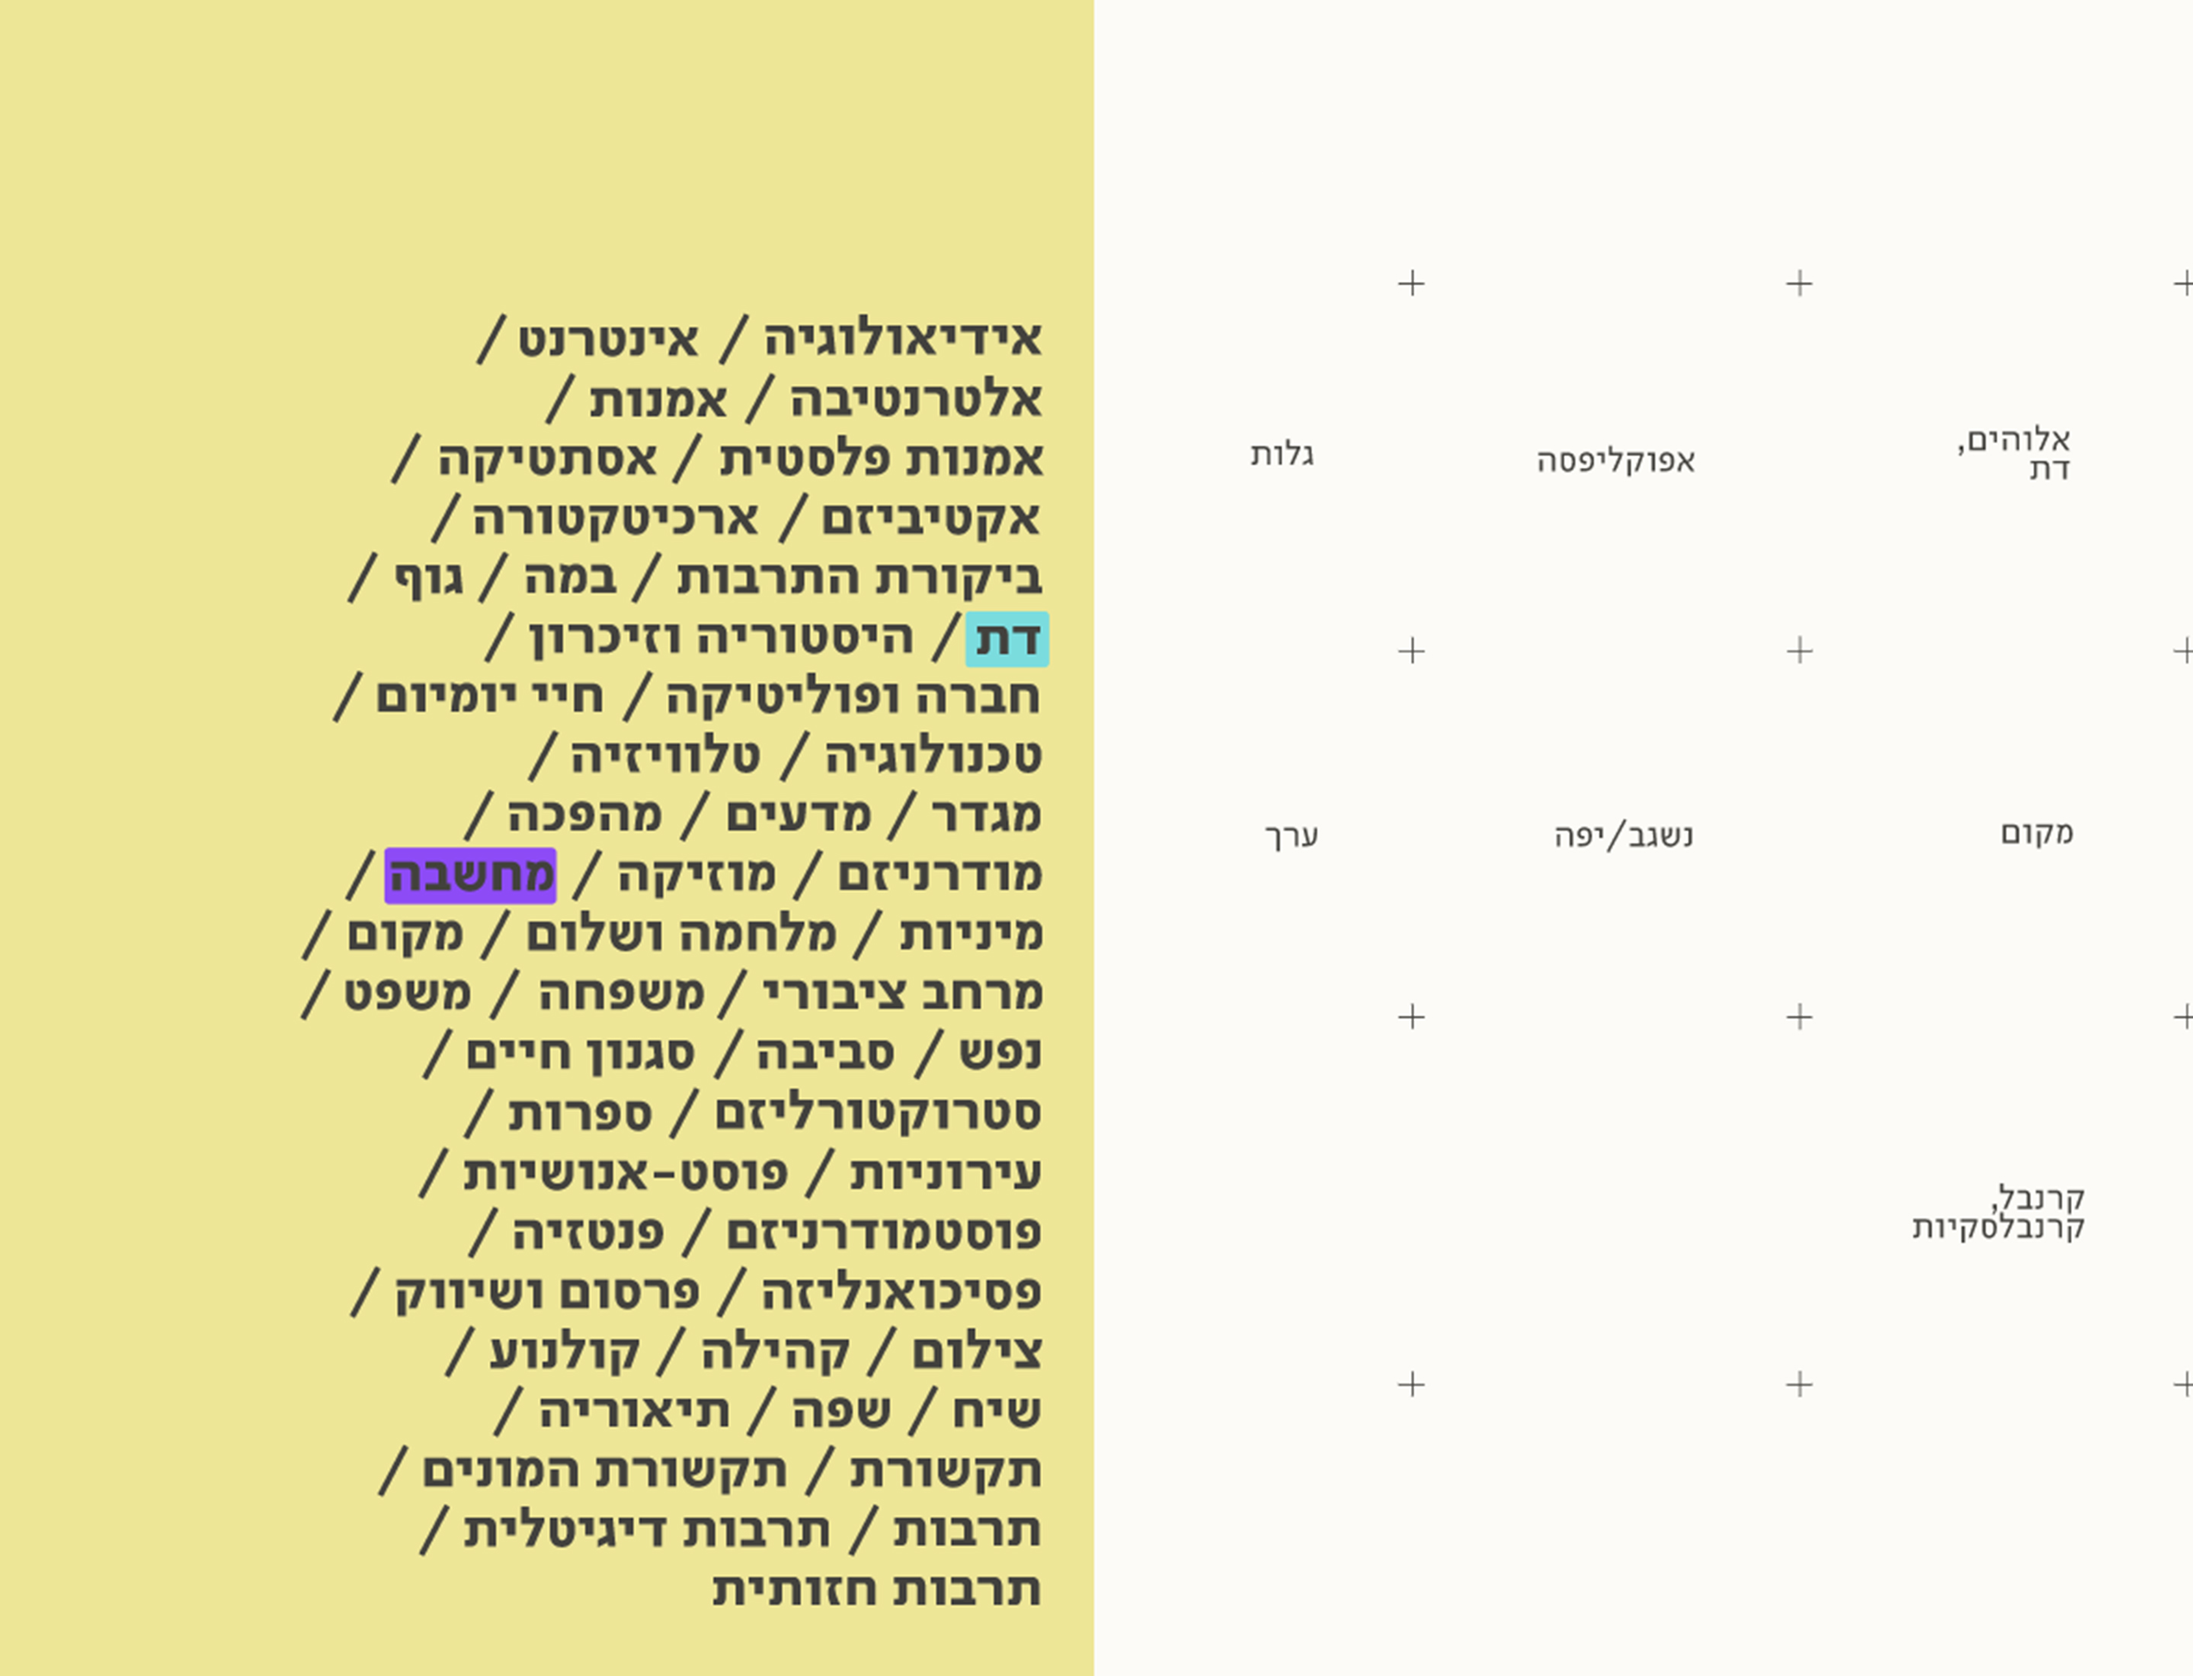
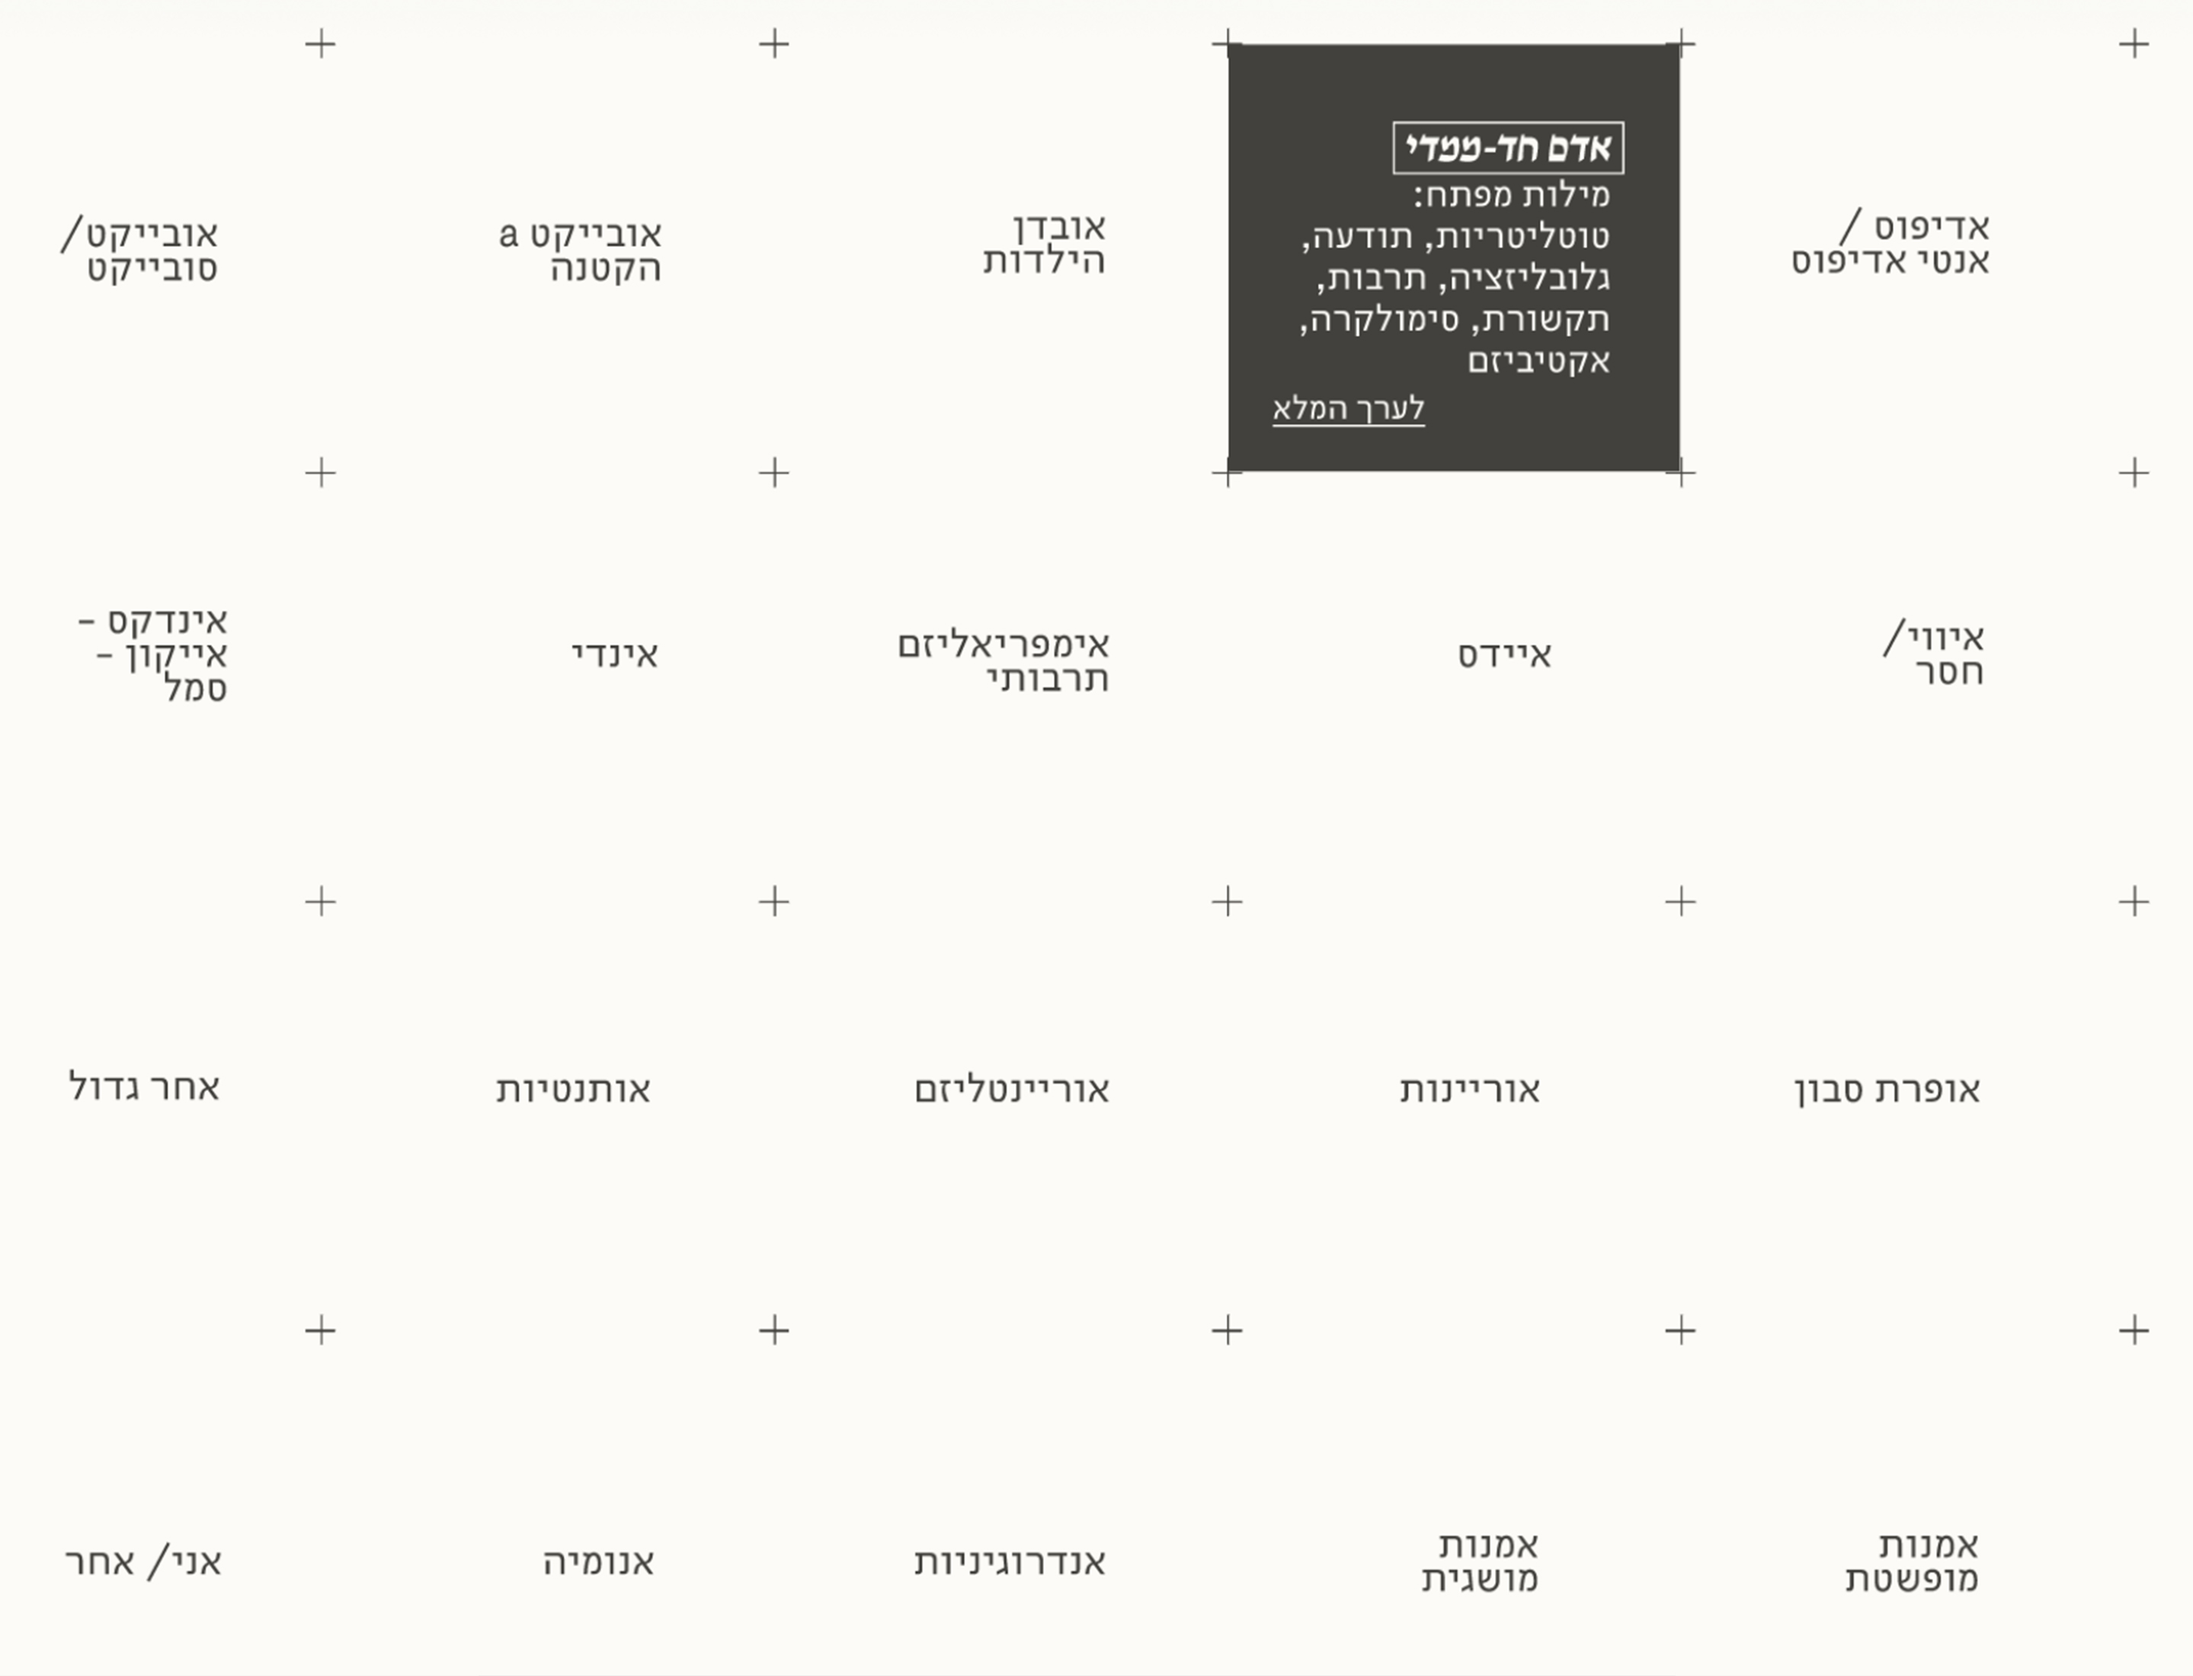
Shrink base text by 0.5pt, remove sidebar numbers, revert project 4 cover
- Reduce fluid font-size clamp bounds by 0.5pt across the board
- Drop the plain numbers next to sidebar thumbnails
- Restore project 4's previous sidebar cover image

diff --git a/site/index.html b/site/index.html
@@ -7,10 +7,10 @@
 <meta name="description" content="Tamar Selzer is a Tel Aviv based graphic designer. Portfolio of book design, visual identity, and web design projects.">
 <link rel="icon" type="image/png" href="assets/favicon/1.png?v=3">
 <link rel="stylesheet" href="https://use.typekit.net/bgn1hbj.css">
-<link rel="stylesheet" href="styles.css?v=111">
+<link rel="stylesheet" href="styles.css?v=112">
 </head>
 <body>
 <div id="app"></div>
-<script src="app.js?v=89" type="module"></script>
+<script src="app.js?v=90" type="module"></script>
 </body>
 </html>

diff --git a/site/app.js b/site/app.js
@@ -162,7 +162,6 @@ function renderCoverList(projects) {
     const row = el("div", { class: "cover-item", "data-slug": project.slug });
     const img = el("img", { src, alt: project.title, loading: "lazy" });
     row.appendChild(img);
-    row.appendChild(el("span", { class: "cover-number" }, `${parseInt(project.number, 10)}`));
     row.addEventListener("click", () => scrollToProject(project.slug));
     list.appendChild(row);
   }

diff --git a/site/styles.css b/site/styles.css
@@ -15,7 +15,7 @@ html, body {
   background: var(--bg);
   color: var(--fg);
   font-family: var(--font);
-  font-size: clamp(15px, calc(10px + 0.39vw), 20px);
+  font-size: clamp(14.33px, calc(9.33px + 0.39vw), 19.33px);
   line-height: 1.3;
   -webkit-font-smoothing: antialiased;
 }
